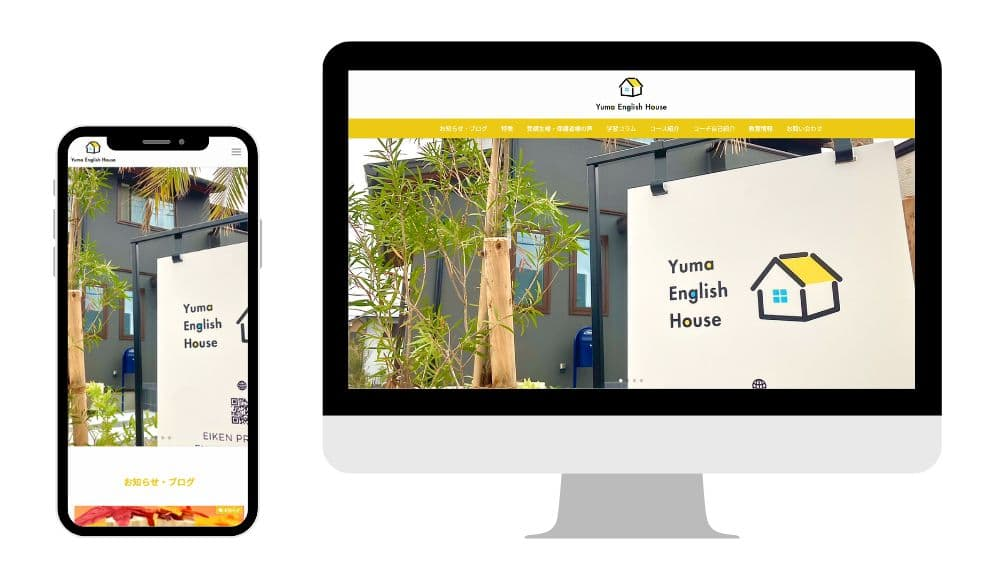
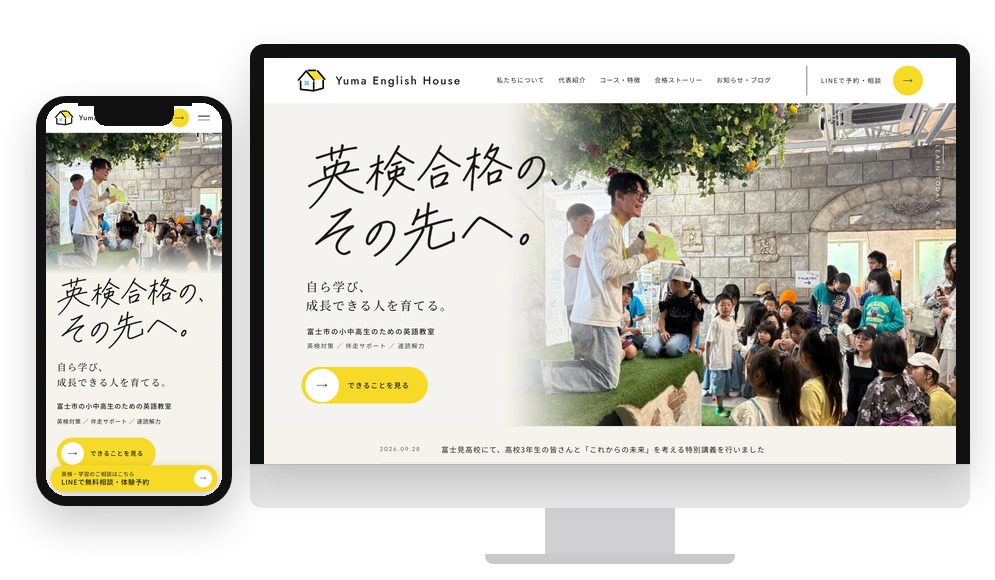
works: Yuma English House 様の画像をデザインリニューアル後のサイトに差し替え、担当範囲に「デザインリニューアル」を追加

diff --git a/src/lib/works.ts b/src/lib/works.ts
@@ -75,7 +75,7 @@ export const WORKS: Work[] = [
         label: "英語教室",
         image: w8,
         summary: "入会ゼロだった教室のホームページを作り直し、申込の入口をLINE1本に。7か月で14名のご入会につながりました。",
-        scope: ["ホームページ制作", "コース別LP", "LINE導線の設計", "月次レポート", "集客支援"],
+        scope: ["ホームページ制作", "デザインリニューアル", "コース別LP", "LINE導線の設計", "月次レポート", "集客支援"],
         url: "https://yuma-english.com/",
         detail: {
             before: [
